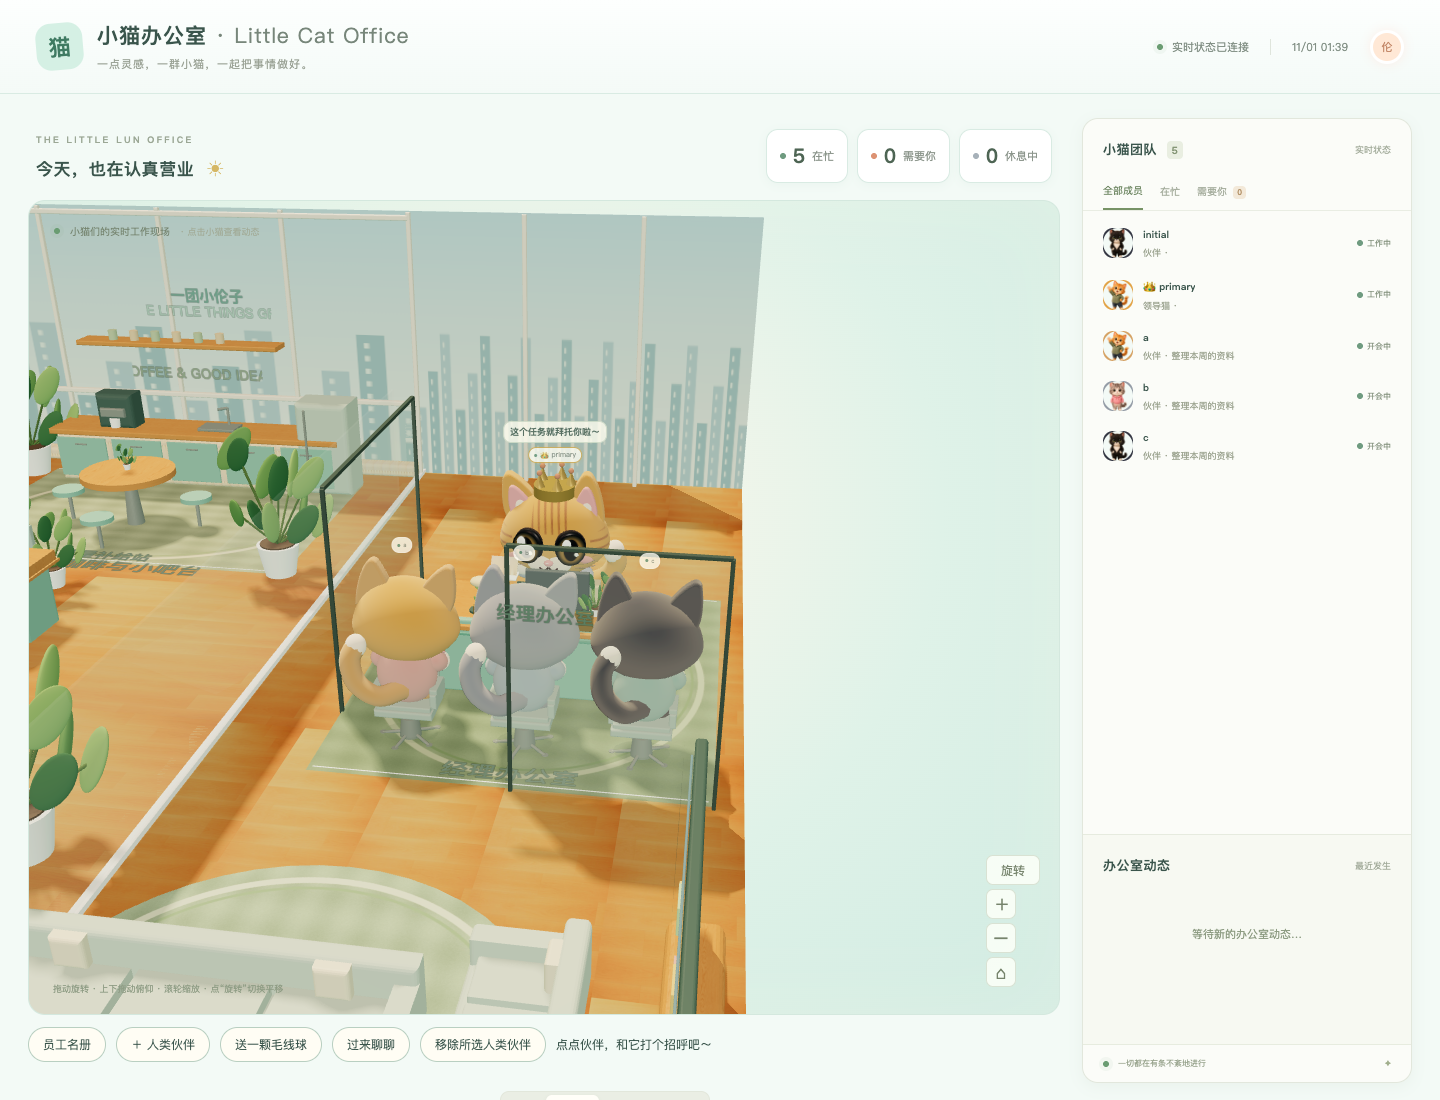
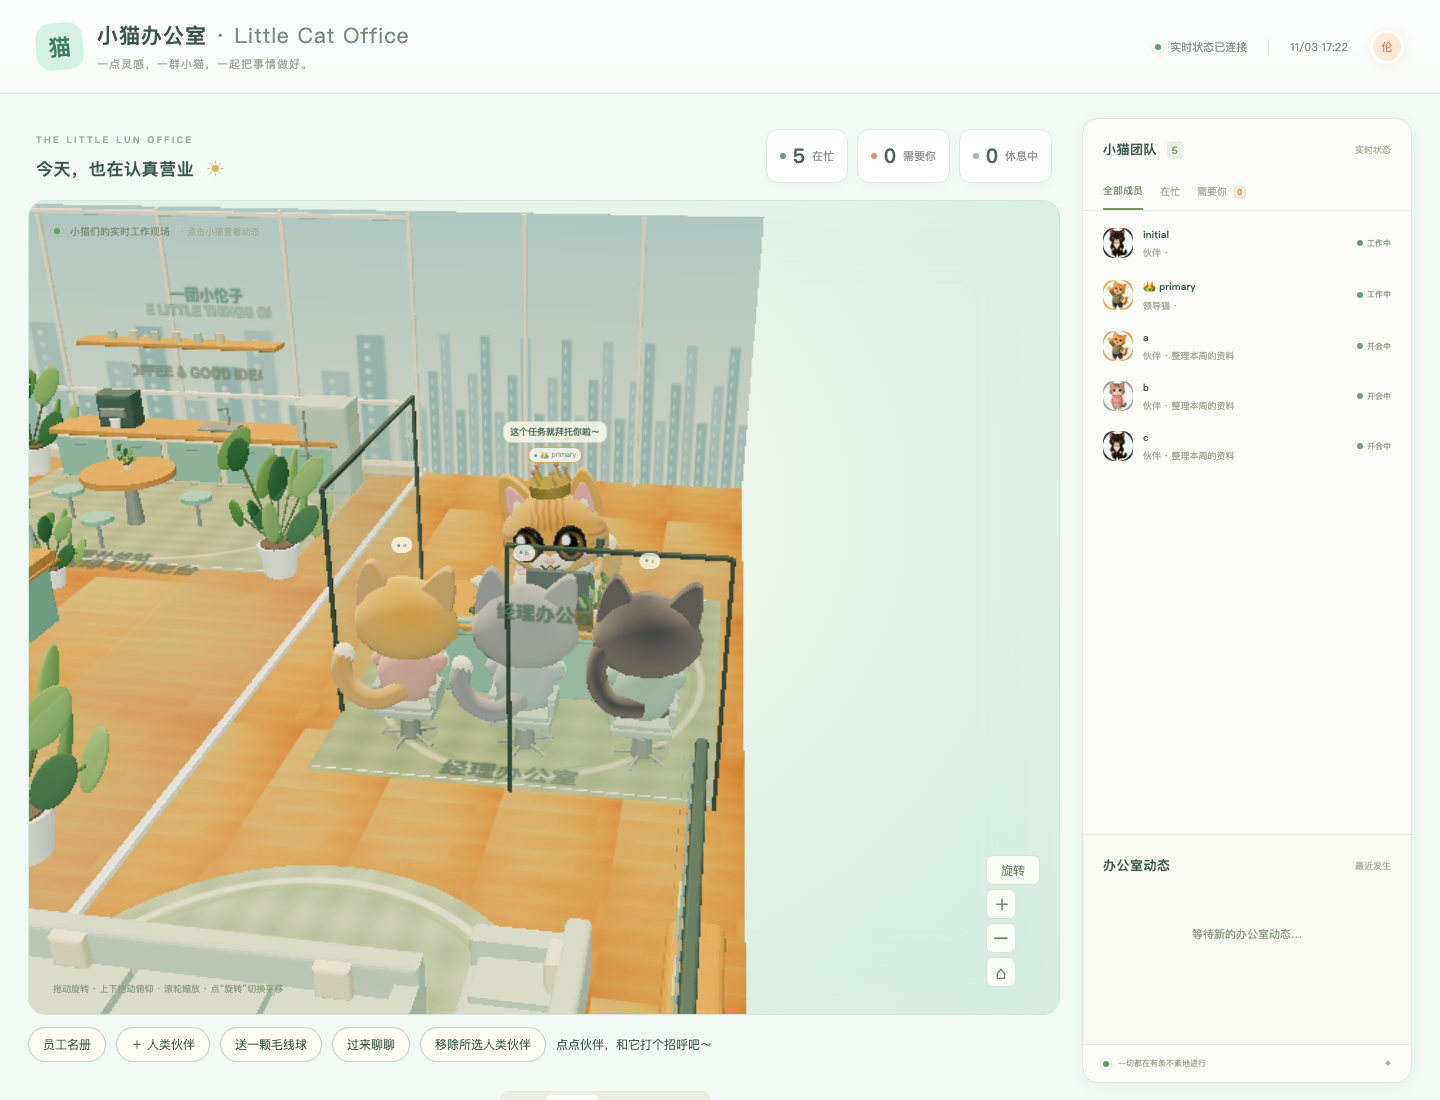
Add agent event bridge and time-of-day city skyline windows
JSON bridge (assign/summon/chat/group) drives manager briefings from local runners; outdoor windows redraw as day/evening/night city skylines with browser coverage.

diff --git a/app/office.js b/app/office.js
@@ -123,9 +123,55 @@ box(29,.42,.22,cream,0,.28,13.05);
 box(.06,3.2,18,softR,14.55,1.7,-1);}
 // Ceiling only over back half so near camera stays open sky feel
 const ceil=mesh(new THREE.PlaneGeometry(29,16),ceilMat,0,7.5,-2);ceil.rotation.x=Math.PI/2;ceil.castShadow=false;ceil.visible=false;
-const outsideMat=new THREE.MeshBasicMaterial({color:'#c9dcd6',side:THREE.DoubleSide});
-// A soft illustrated skyline keeps the background in the toy-office palette.
-const skyline=document.createElement('canvas');skyline.width=1024;skyline.height=512;const sky=skyline.getContext('2d');const gradient=sky.createLinearGradient(0,0,0,512);gradient.addColorStop(0,'#c1dcd8');gradient.addColorStop(1,'#fff0d4');sky.fillStyle=gradient;sky.fillRect(0,0,1024,512);for(let i=0;i<28;i++){const h=70+(i*73)%220;sky.fillStyle=i%2?'#b7c9c3':'#a5bdb7';sky.fillRect(i*40,512-h,30,h);sky.fillStyle='#e9ead4';for(let y=512-h+16;y<500;y+=25)sky.fillRect(i*40+8,y,5,10);}outsideMat.map=new THREE.CanvasTexture(skyline);outsideMat.map.colorSpace=THREE.SRGBColorSpace;
+// Illustrated city panorama: fixed architecture, changing sky, glass and occupancy lights.
+// Keep this unlit so interior exposure does not wash out the night skyline.
+const outsideMat=new THREE.MeshBasicMaterial({color:0xffffff,side:THREE.DoubleSide,toneMapped:false});
+const skyline=document.createElement('canvas');skyline.width=2048;skyline.height=768;
+const sky=skyline.getContext('2d');
+outsideMat.map=new THREE.CanvasTexture(skyline);outsideMat.map.colorSpace=THREE.SRGBColorSpace;
+let cityTime=null;
+function drawCity(mode){
+ if(cityTime===mode)return;cityTime=mode;
+ const palettes={
+  day:{sky:['#529fce','#b5e2ed','#f2e9d7'],far:'#8cabbc',body:'#49788f',side:'#35586f',glass:['#80c0d6','#a8d6e1','#659eb9'],line:'#47758c'},
+  evening:{sky:['#665d99','#d99baf','#ffcf91'],far:'#88788f',body:'#54576f',side:'#3d405b',glass:['#bb939f','#dcafaa','#77778f'],line:'#51566e'},
+  night:{sky:['#101d3c','#233957','#526278'],far:'#34465e',body:'#24394f',side:'#182b40',glass:['#304e66','#3b5e76','#29465f'],line:'#22374d'}
+ };
+ const p=palettes[mode],g=sky.createLinearGradient(0,0,0,768);
+ p.sky.forEach((c,i)=>g.addColorStop(i/2,c));sky.fillStyle=g;sky.fillRect(0,0,2048,768);
+ if(mode==='night'){
+  sky.fillStyle='#c7dce6';for(let i=0;i<48;i++){const x=(i*293+51)%2048,y=(i*79+23)%270;sky.globalAlpha=.35+(i%3)*.2;sky.fillRect(x,y,2,2);}sky.globalAlpha=1;
+ }
+ // Soft sun/moon disk and a few long, stylized cloud wisps.
+ sky.fillStyle=mode==='night'?'#e4e9cf':mode==='evening'?'#ffe0a3':'#fff4d4';
+ sky.beginPath();sky.arc(1530,mode==='evening'?295:116,mode==='night'?25:42,0,Math.PI*2);sky.fill();
+ if(mode!=='night'){sky.fillStyle=mode==='day'?'#e7f5f5':'#edb6b8';sky.globalAlpha=.48;for(let i=0;i<6;i++){sky.beginPath();sky.ellipse(140+i*360,90+(i%3)*48,110,9,0,0,Math.PI*2);sky.fill();}sky.globalAlpha=1;}
+ // Distant skyline between the taller neighboring towers.
+ sky.fillStyle=p.far;for(let i=0;i<36;i++){const h=100+(i*71)%210;sky.fillRect(i*60,768-h,45,h);sky.fillRect(i*60+10,758-h,25,10);}
+ const towers=[[-50,190,520],[170,148,385],[350,205,610],[590,135,430],[760,185,550],[1005,155,340],[1200,210,475],[1450,145,390],[1650,190,580],[1885,185,455]];
+ towers.forEach(([x,w,h],i)=>{
+  const top=768-h,side=22;
+  sky.fillStyle=p.side;sky.fillRect(x,top,w,h);
+  sky.fillStyle=p.body;sky.fillRect(x,top,w-side,h);
+  // Rooftop crown and occasional slender antenna give recognizable tower silhouettes.
+  sky.fillStyle=p.side;sky.fillRect(x+18,top-12,w-48,12);
+  if(i%3===2)sky.fillRect(x+w*.5,top-43,3,31);
+  for(let row=0,y=top+15;y<768;y+=25,row++)for(let col=0,xx=x+9;xx<x+w-side-8;xx+=19,col++){
+   const seed=(i*37+row*13+col*7)%19;
+   const lit=mode==='night'?seed<11:mode==='evening'?seed<4:false;
+   sky.fillStyle=lit?['#ffda8f','#efb86b','#f8e8bb'][seed%3]:p.glass[(col+Math.floor(row/5)+i)%3];
+   sky.fillRect(xx,y,12,17);
+  }
+  // Broad diagonal reflections stay clipped to the glass facade.
+  sky.save();sky.beginPath();sky.rect(x+5,top+8,w-side-10,h-8);sky.clip();
+  sky.globalAlpha=mode==='day'?.19:mode==='evening'?.12:.035;sky.fillStyle='#ffffff';
+  sky.beginPath();sky.moveTo(x+w*.6,top);sky.lineTo(x+w*.95,top);sky.lineTo(x+w*.35,768);sky.lineTo(x,768);sky.closePath();sky.fill();sky.restore();
+  sky.fillStyle=p.line;for(let y=top+114;y<768;y+=125)sky.fillRect(x,y,w-side,4);
+  sky.fillStyle=mode==='day'?'#b5d8e1':mode==='evening'?'#d6a4a4':'#597487';sky.fillRect(x,top,2,h);
+ });
+ outsideMat.map.needsUpdate=true;
+}
+drawCity('day');
 mesh(new THREE.PlaneGeometry(29,7.6),outsideMat,0,3.7,-12.85);mesh(new THREE.PlaneGeometry(10,7.6),outsideMat,19,3.7,-12.85);for(let x=14.5;x<=24;x+=3.2)box(.12,7.6,.14,frameForBoss(),x,3.7,-12.55);function frameForBoss(){return mat('#ebe6d4',.4)}const sideVista=mesh(new THREE.PlaneGeometry(26,7.6),outsideMat,-14.65,3.7,.2);sideVista.rotation.y=Math.PI/2;
 const frame=mat('#ebe6d4',.4);for(let x=-14.5;x<=14.6;x+=3.625)box(.12,7.6,.14,frame,x,3.7,-12.55);for(let z=-12.5;z<=13.1;z+=3.65)box(.14,7.6,.12,frame,-14.5,3.7,z);
 for(const y of [.18,2.2,7.35]){box(29,.14,.18,frame,0,y,-12.55);box(.18,.14,26,frame,-14.5,y,.2)}
@@ -410,7 +456,7 @@ $('#simulation').addEventListener('change',e=>{simulation=e.target.checked;clear
 document.querySelectorAll('[data-filter]').forEach(b=>b.onclick=()=>{filter=b.dataset.filter;document.querySelectorAll('[data-filter]').forEach(x=>x.classList.toggle('active',x===b));renderUI()});
 let timeMode='day';const lighting={day:{sky:0xfff4e0,ground:0xa8d8c8,sun:0xffe8c0,intensity:2.1,ambient:1.8,exposure:1.0,bg:'radial-gradient(ellipse at 48% 38%,#fff8ec,#dff2e8 55%,#d0ebe2)'},evening:{sky:0xffe0c4,ground:0x9aab92,sun:0xffc08a,intensity:3.3,ambient:2.0,exposure:1.22,bg:'radial-gradient(ellipse at 48% 40%,#f6e7d2,#dde3cf)'},night:{sky:0xb4c8e2,ground:0x6a7872,sun:0xb7d2ef,intensity:1.05,ambient:1.65,exposure:1.18,bg:'radial-gradient(ellipse at 48% 40%,#627882,#3d545c)'}};
 const nightLights=[];for(const [x,z]of [[-10,-8],[-1,-8],[8,-8],[-6,4],[7,3],[7,10]]){const l=new THREE.PointLight('#ffd49c',0,15,2);l.position.set(x,4,z);scene.add(l);nightLights.push(l)}
-function setTime(mode){timeMode=mode;const hour=new Date().getHours();const actual=mode==='now'?(hour>=7&&hour<17?'day':hour>=17&&hour<20?'evening':'night'):mode;const l=lighting[actual];ambient.color.set(l.sky);ambient.groundColor.set(l.ground);ambient.intensity=l.ambient;sun.color.set(l.sun);sun.intensity=l.intensity;sun.position.set(actual==='evening'?-25:-10,actual==='evening'?12:26,-12);renderer.toneMappingExposure=l.exposure;renderer.shadowMap.needsUpdate=true;host.style.background=l.bg;nightLights.forEach(x=>x.intensity=actual==='night'?28:actual==='evening'?5:0);document.querySelectorAll('[data-time]').forEach(b=>{const active=b.dataset.time===mode;b.classList.toggle('active',active);b.setAttribute('aria-pressed',String(active))})}
+function setTime(mode){timeMode=mode;const hour=new Date().getHours();const actual=mode==='now'?(hour>=7&&hour<17?'day':hour>=17&&hour<20?'evening':'night'):mode;const l=lighting[actual];drawCity(actual);ambient.color.set(l.sky);ambient.groundColor.set(l.ground);ambient.intensity=l.ambient;sun.color.set(l.sun);sun.intensity=l.intensity;sun.position.set(actual==='evening'?-25:-10,actual==='evening'?12:26,-12);renderer.toneMappingExposure=l.exposure;renderer.shadowMap.needsUpdate=true;host.style.background=l.bg;nightLights.forEach(x=>x.intensity=actual==='night'?28:actual==='evening'?5:0);document.querySelectorAll('[data-time]').forEach(b=>{const active=b.dataset.time===mode;b.classList.toggle('active',active);b.setAttribute('aria-pressed',String(active))})}
 document.querySelectorAll('[data-time]').forEach(b=>b.onclick=()=>setTime(b.dataset.time));
 function resize(){const w=host.clientWidth,h=host.clientHeight;renderer.setSize(w,h);camera.aspect=w/Math.max(1,h);updateCamera()}
 new ResizeObserver(resize).observe(host);function setZoom(v){zoom=Math.max(.55,Math.min(2.4,v));updateCamera();resize()}$('#zoom-in').onclick=()=>setZoom(zoom+.12);$('#zoom-out').onclick=()=>setZoom(zoom-.12);$('#reset-view').onclick=()=>{viewAngle=.30;viewHeight=10.8;camRadius=24;zoom=1;target.set(2,1,-1);window.__userFramed=false;updateCamera();resize()};host.addEventListener('wheel',e=>{if(e.target!==renderer.domElement)return;e.preventDefault();setZoom(zoom-e.deltaY*.0007)},{passive:false});

diff --git a/scripts/bridge.py b/scripts/bridge.py
@@ -1,0 +1,56 @@
+#!/usr/bin/env python3
+"""Local JSON event bridge. IDs are stable; names are display labels only."""
+import argparse
+import json
+import sys
+import catctl
+
+
+def forward(event, url=None):
+    if not isinstance(event, dict) or not isinstance(event.get('to'), list):
+        raise ValueError('event must be an object with a to array')
+    kind = event.get('type')
+    if kind not in ('assign', 'summon', 'chat', 'group'):
+        raise ValueError('type must be assign, summon, chat or group')
+    actors = [event.get('from')] + event.get('to', [])
+    if len(actors) < 2 or any(not isinstance(a, dict) or not isinstance(a.get('id'), str) or not a['id'].strip() for a in actors):
+        raise ValueError('from and to require objects with stable id and optional name')
+    if len({a['id'] for a in actors}) != len(actors):
+        raise ValueError('participants must have distinct IDs')
+    if not isinstance(event.get('id'), str) or not event['id'].strip() or not isinstance(event.get('task'), str) or not event['task'].strip():
+        raise ValueError('id and task are required strings')
+    if any('name' in a and (not isinstance(a['name'], str) or not a['name'].strip()) for a in actors):
+        raise ValueError('name must be a nonempty string')
+    state = catctl.request(url=url)
+    existing = {a['id']: a for a in state['agents']}
+    leader = next((a['id'] for a in state['agents'] if a.get('role') == 'lead'), actors[0]['id'])
+    # Preserve live status while registering display names; never edit roster files.
+    for actor in actors:
+        old = existing.get(actor['id'])
+        if old is None or ('name' in actor and actor['name'] != old.get('name')):
+            catctl.report(old.get('state', 'idle') if old else 'idle', old.get('task', '') if old else '', actor['id'], actor.get('name', actor['id']), url=url)
+    sender = actors[0]['id'] if kind == 'assign' else leader
+    recipients = [a['id'] for a in actors if a['id'] != sender]
+    return catctl.request({'from': sender, 'to': recipients, 'task': event['task'], 'id': event['id']}, url=url, path='/api/assign')
+
+
+def main():
+    parser = argparse.ArgumentParser(description=__doc__)
+    parser.add_argument('file', nargs='?', help='JSON event file; omit for one JSON event per stdin line')
+    args = parser.parse_args()
+    try:
+        if args.file:
+            with open(args.file, encoding='utf-8') as source:
+                print(json.dumps(forward(json.load(source)), ensure_ascii=False))
+        else:
+            for line in sys.stdin:
+                if line.strip():
+                    print(json.dumps(forward(json.loads(line)), ensure_ascii=False), flush=True)
+    except (ValueError, OSError, TypeError, KeyError) as error:
+        print('Bridge failed: ' + str(error), file=sys.stderr)
+        return 1
+    return 0
+
+
+if __name__ == '__main__':
+    sys.exit(main())

diff --git a/tests/test_bridge.py b/tests/test_bridge.py
@@ -1,0 +1,25 @@
+import sys
+import unittest
+from pathlib import Path
+from unittest.mock import patch
+sys.path.insert(0, str(Path(__file__).resolve().parents[1] / 'scripts'))
+import bridge
+
+class BridgeTests(unittest.TestCase):
+    def test_chat_keeps_manager_and_includes_speaker(self):
+        event = {'type':'chat','id':'chat-1','task':'Review','from':{'id':'a'},'to':[{'id':'b'}]}
+        with patch.object(bridge.catctl, 'request', side_effect=[{'agents':[{'id':'boss','role':'lead'},{'id':'a'},{'id':'b'}]}, {}]) as request:
+            bridge.forward(event)
+            self.assertEqual(request.call_args.args[0], {'from':'boss','to':['a','b'],'task':'Review','id':'chat-1'})
+
+    def test_invalid_event_has_no_writes(self):
+        with patch.object(bridge.catctl, 'request') as request:
+            for event in ({}, {'type':'chat','from':{'id':'a'},'to':[{'id':'a'}]}):
+                with self.assertRaises(ValueError): bridge.forward(event)
+            request.assert_not_called()
+
+    def test_assign_uses_dispatcher(self):
+        event = {'type':'assign','id':'dispatch-1','task':'Write','from':{'id':'a'},'to':[{'id':'b'}]}
+        with patch.object(bridge.catctl, 'request', side_effect=[{'agents':[{'id':'boss','role':'lead'},{'id':'a'},{'id':'b'}]}, {}]) as request:
+            bridge.forward(event)
+            self.assertEqual(request.call_args.args[0]['from'], 'a')

diff --git a/docs/BRIDGE.md b/docs/BRIDGE.md
@@ -1,0 +1,45 @@
+# 一分钟让智能体动起来 / Agent event bridge
+
+办公室不会偷读 Grok Bot、Codex 或 Claude 的聊天。让执行派工的程序在成功派工、召唤或会议开始时调用本地桥即可，无需点网页「分配」。打开办公室网页才能播放动画。
+
+## 真实接入
+
+1. 用启动器打开办公室；端口见 `.local/launcher.port`，设置 `CAT_OFFICE_URL=http://127.0.0.1:实际端口`。启用鉴权时设置 `CAT_OFFICE_TOKEN`。
+2. 在 bot 的事件回调中运行 `python3 scripts/bridge.py`，向 stdin 写一行 JSON（也可传 JSON 文件路径）。程序可持续接收多行；每行成功输出服务端状态，失败退出非零。
+3. `id` 使用平台稳定的事件 ID，重试沿用；独立事件使用新 ID。参与者 `id` 使用平台稳定的 bot ID，`name` 是可更改的中文显示名，不按名字猜身份，不用手改 roster JSON。
+
+```json
+{"type":"assign","id":"platform-run-123","from":{"id":"dispatcher","name":"大总管"},"to":[{"id":"writer","name":"写作助手"}],"task":"写初稿"}
+```
+
+`type` 支持 `assign / summon / chat / group`。`from` 和非空 `to` 都是带 id、可选 name 的对象。用户找 bot 时，不必创建人类猫：让该 bot 作为 from，协作 bot 作为 to；只有一个 bot 的普通问答用下方 status 上报，不制造多人会面。
+
+- assign：from 派给 to，沿用现有领导识别规则。
+- summon/chat/group：当前领导主持，from 和 to 中除领导外的人进经理室；没有领导时 from 主持。不会把每个说话的 bot 都提升为领导。
+- 所有类型复用经理室约 5 秒会面，最多三名访客一批；不是新建自由聊天房间。只在会话开始时发一次，别每个 token 都发。
+- 会后沿用既有语义：参与者 working、task 为会议主题。实际任务完成后调用状态上报。
+
+```sh
+python3 scripts/catctl.py set writer working '正在写初稿' --name '写作助手'
+python3 scripts/catctl.py set writer idle '已交稿'
+```
+
+这些命令写入当前办公室。桥接可被本地 shell、Python subprocess、Node child_process 或 MCP 工具调用；HTTP 等价调用见 [ASSIGNMENTS](ASSIGNMENTS.md)。远程 Grok webhook 不能直接访问用户电脑的 localhost：需要已有本地 bot runner 接收事件后调用本桥，本项目不提供公网网关。失败由调用方记录并以相同事件 ID 重试；桥无独立消息队列，注册姓名与派工不是一个事务。不要把可视化失败当作真实任务失败。
+
+## 安全 demo / Reproducible demo
+
+```sh
+python3 server/server.py --demo --port 8771
+# 另一个终端；浏览器打开 http://127.0.0.1:8771/app/
+CAT_OFFICE_URL=http://127.0.0.1:8771 python3 scripts/bridge.py examples/bridge-group.json
+```
+
+端口占用请换空闲端口，不停止已有服务。重复演示需更换事件 id。
+
+自动化隔离 demo：`npm run test:bridge`。它启动随机空闲端口和临时数据库，通过真实桥 CLI 触发三猫会面，检查位置、5 秒停留、回工位和重试幂等，输出 `docs/bridge-qa.json` 和 `docs/shot_bridge_group.png`，不写真实名册。
+
+## 可复制的短 skill
+
+> 成功派工时发送 assign；多人会话开始时发送 group/chat/summon。使用稳定 bot ID 和独立事件 ID，显示名放 name。调用本仓库 scripts/bridge.py，JSON 经 stdin 输入，不拼接 shell 文本。读取退出码；失败记录并用相同事件 ID 重试。实际进度使用 catctl set。不得声称动画代表任务实际执行或完成。
+
+English: Feed one JSON event per stdin line to `python3 scripts/bridge.py`. Stable agent IDs map directly to roster IDs; optional names are display labels. The bridge registers cats through existing APIs and reuses manager briefings. It requires explicit producer callbacks; it does not monitor chats. Use a local runner for remote platforms. Test with `npm run test:bridge` in an isolated temporary office.

diff --git a/README.md b/README.md
@@ -110,3 +110,7 @@ Optional: `python3 scripts/catctl.py autostart on`; disable with `autostart off`
 > **写入警告 / Writes to the active roster:** 示例 curl 和 `catctl set` 会写入当前运行的办公室名册。演示请启动 `python3 server/server.py --demo --port 8771` 或 `python3 server/server.py --data-dir /tmp/cat-office-demo --port 8771`，并将示例 URL / `CAT_OFFICE_URL` 指向该端口。Examples modify the running office roster; use a demo or temporary data directory and point all clients at its port. 误写可通过名册 UI 或 `POST /api/roster`，请求体 `{"id":"example-id","action":"delete"}` 删除。Delete accidental entries using the roster UI or that API.
 
 The launcher records its actual port in `.local/launcher.port` and skips foreign services. Linux may require trusting the desktop entry; install-launcher attempts this with gio.
+
+## 自动事件桥 / Automatic event bridge
+
+Grok Bot、Codex、Claude 与本地 runner 可通过 JSON 事件自动触发派工、召唤和群聊会面，无需点击分配。见 [一分钟接入与隔离 demo](docs/BRIDGE.md)。
